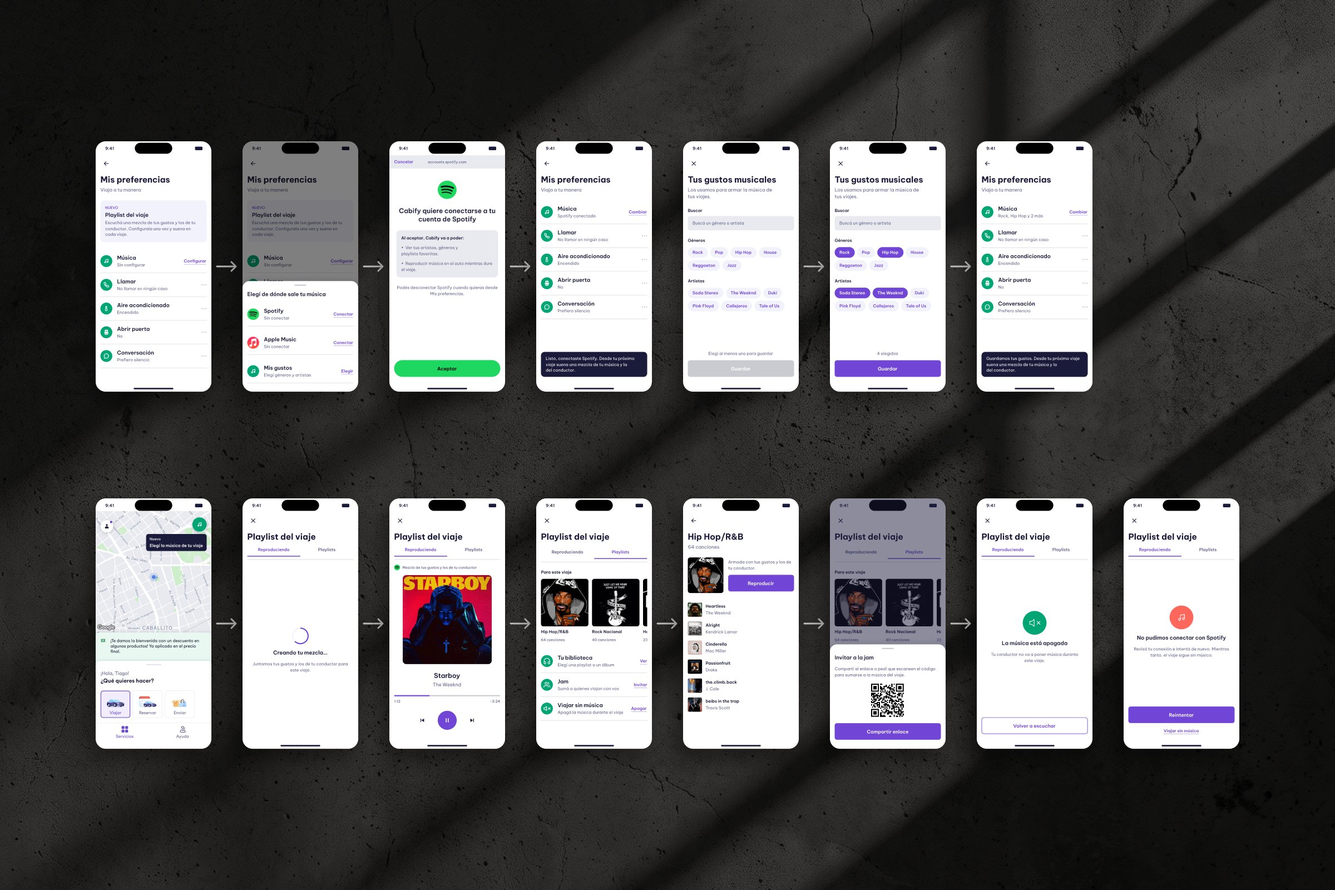
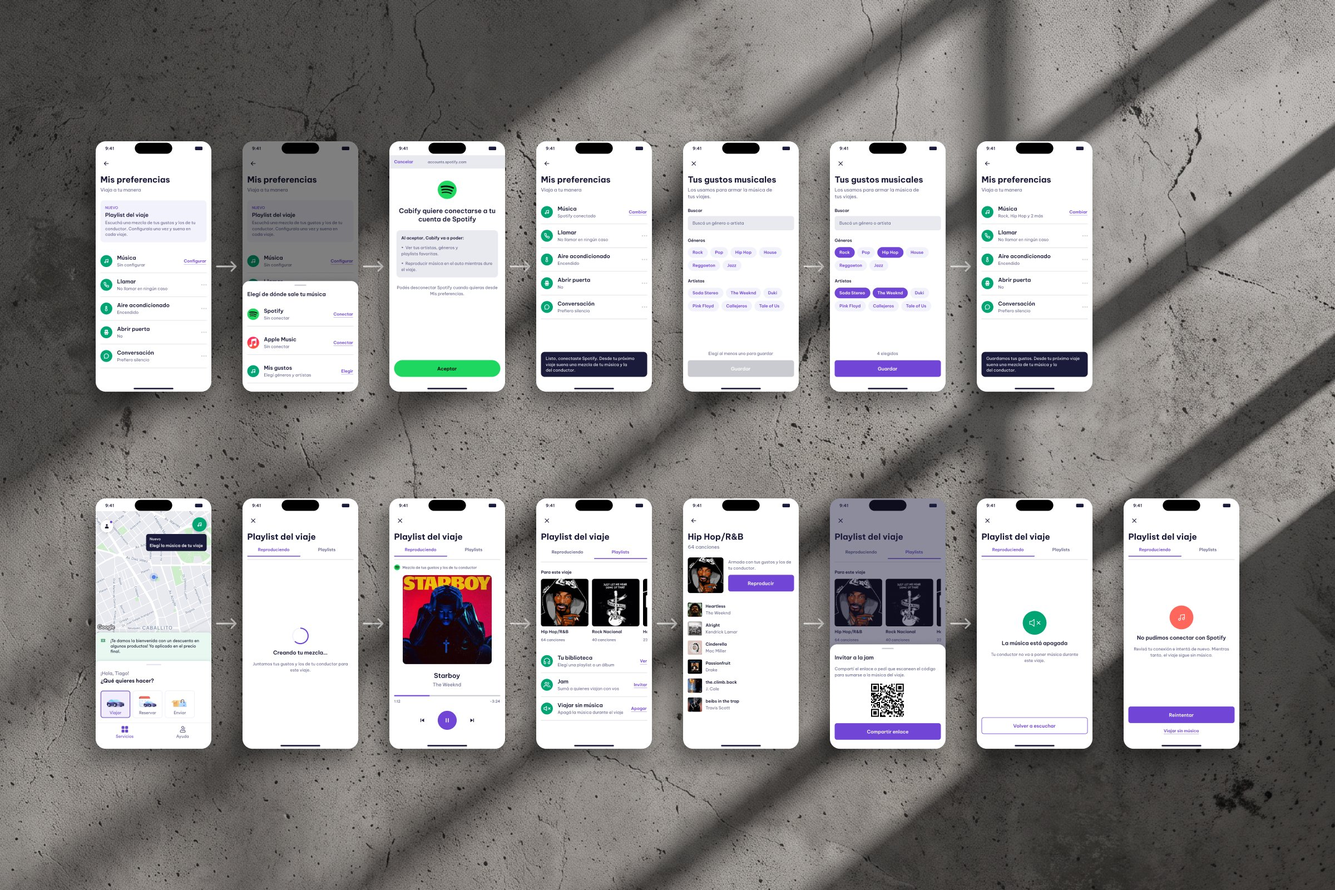
fix: fondos de las imágenes de Cabify en hormigón de valor medio
Las cinco piezas del caso tenían el borde pegado al fondo del tema oscuro. Los alt dicen ahora hormigón gris en lugar de oscuro.

diff --git a/src/data/projects.js b/src/data/projects.js
@@ -443,8 +443,8 @@ export const projects = [
         slot: 'intro',
         frame: { width: 1440, height: 810 },
         alt: {
-          es: 'Tres bocetos en papel de las pantallas y el user flow original sobre hormigón oscuro',
-          en: 'Three paper sketches of the screens and the original user flow on dark concrete',
+          es: 'Tres bocetos en papel de las pantallas y el user flow original sobre hormigón gris',
+          en: 'Three paper sketches of the screens and the original user flow on gray concrete',
         },
         src: cabifyStrip,
       },
@@ -461,8 +461,8 @@ export const projects = [
         type: 'diagram',
         slot: 'decisions',
         alt: {
-          es: 'Las quince pantallas en dos filas sobre hormigón oscuro, arriba el recorrido para configurar la música y abajo el del viaje',
-          en: 'The fifteen screens in two rows on dark concrete, with the music setup flow on top and the ride flow below',
+          es: 'Las quince pantallas en dos filas sobre hormigón gris, arriba el recorrido para configurar la música y abajo el del viaje',
+          en: 'The fifteen screens in two rows on gray concrete, with the music setup flow on top and the ride flow below',
         },
         src: cabifyDiagram,
       },
@@ -470,8 +470,8 @@ export const projects = [
         type: 'screen-cluster',
         slot: 'decisions',
         alt: {
-          es: 'Tres pantallas mobile sobre hormigón oscuro: el panel para elegir de dónde sale la música, Tus gustos musicales con Guardar deshabilitado y el error de conexión con Spotify',
-          en: 'Three mobile screens on dark concrete: the panel to choose where the music comes from, Your music taste with Save disabled, and the Spotify connection error',
+          es: 'Tres pantallas mobile sobre hormigón gris: el panel para elegir de dónde sale la música, Tus gustos musicales con Guardar deshabilitado y el error de conexión con Spotify',
+          en: 'Three mobile screens on gray concrete: the panel to choose where the music comes from, Your music taste with Save disabled, and the Spotify connection error',
         },
         src: cabifyClusterB,
       },
@@ -479,8 +479,8 @@ export const projects = [
         type: 'palette',
         slot: 'delivered',
         alt: {
-          es: 'El UI Kit sobre hormigón oscuro, con átomos, una fila de preferencia, el panel que la contiene y la pantalla con la grilla de cuatro columnas, y abajo los colores y la tipografía',
-          en: 'The UI Kit on dark concrete, with atoms, a preference row, the panel that holds it, and the screen with the four-column grid, plus the colors and typography below',
+          es: 'El UI Kit sobre hormigón gris, con átomos, una fila de preferencia, el panel que la contiene y la pantalla con la grilla de cuatro columnas, y abajo los colores y la tipografía',
+          en: 'The UI Kit on gray concrete, with atoms, a preference row, the panel that holds it, and the screen with the four-column grid, plus the colors and typography below',
         },
         src: cabifyPalette,
       },
